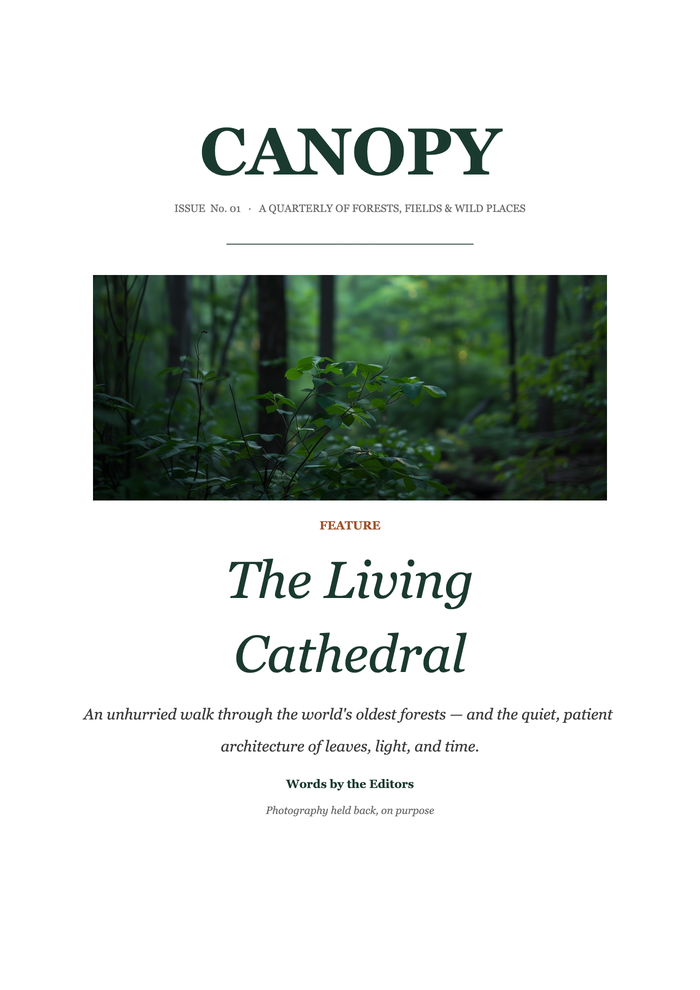
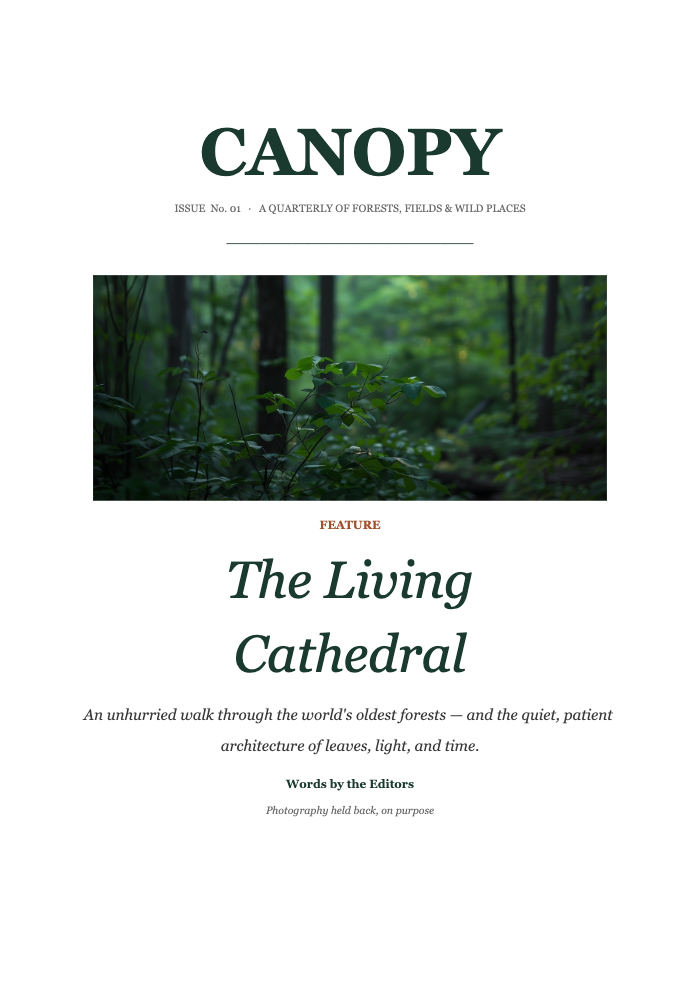
chore(release): 0.58.0
The sp3d release: full DrawingML 3-D shape shading (bevels, extrusion side
walls, calibrated light rig) on top of the 0.57.0 scene3d camera, plus xlsx
list data-validation dropdowns, pie/doughnut charts, and an opt-in Google
Fonts toggle in the VS Code preview.

- Refresh README screenshots (pptx/docx/xlsx demo decks).
- Bump all 8 packages to 0.58.0.
- CHANGELOG 0.58.0 section.
- Sync site API reference (XlsxWorkbook.resolveValidationList, ~4 MB math
  engine) and Capabilities highlights (sp3d bevel/extrusion, xlsx pie/
  doughnut, cell comments + list validation).

diff --git a/site/src/lib/api-reference.ts b/site/src/lib/api-reference.ts
@@ -23,7 +23,7 @@ export interface ApiClass {
 const ZIP = { name: 'maxZipEntryBytes', type: 'number', def: '512 MiB', desc: 'Per-entry ZIP decompression cap (zip-bomb guard). Lower it for untrusted input.' };
 const GFONTS = { name: 'useGoogleFonts', type: 'boolean', def: 'false', desc: 'Load metric-compatible webfonts from Google Fonts so layout matches Office without the fonts installed. Off by default for privacy.' };
 const DPR = { name: 'dpr', type: 'number', def: 'devicePixelRatio', desc: 'Device pixel ratio for the backing store (crispness on HiDPI).' };
-const MATH = { name: 'math', type: 'MathRenderer', def: 'undefined', desc: 'Opt-in OMML equation engine (MathJax + STIX Two Math, ~3 MB). Import it from the separate @silurus/ooxml/math entry — `import { math } from "@silurus/ooxml/math"` — and pass it to render equations. Omit it and equations are skipped — the engine tree-shakes away entirely.' };
+const MATH = { name: 'math', type: 'MathRenderer', def: 'undefined', desc: 'Opt-in OMML equation engine (MathJax + STIX Two Math, ~4 MB). Import it from the separate @silurus/ooxml/math entry — `import { math } from "@silurus/ooxml/math"` — and pass it to render equations. Omit it and equations are skipped — the engine tree-shakes away entirely.' };
 
 export const apiReference: Record<'docx' | 'xlsx' | 'pptx', ApiClass[]> = {
   pptx: [
@@ -150,6 +150,7 @@ export const apiReference: Record<'docx' | 'xlsx' | 'pptx', ApiClass[]> = {
         { sig: 'get sheetNames(): string[]', desc: 'Names of all sheets.' },
         { sig: 'get sheetCount(): number', desc: 'Total sheets.' },
         { sig: 'renderViewport(canvas, sheetIndex, viewport, opts?: { width?, height?, dpr?, cellScale? }): Promise<void>', desc: 'Render a row/col window of a sheet into the given canvas. Equations in shapes render when a `math` engine was passed to `load`.' },
+        { sig: 'resolveValidationList(sheetIndex, formula1): Promise<ResolvedList>', desc: 'Resolve a list-type data-validation `formula1` (ECMA-376 §18.3.1.32) into the allowed values to display — inline quoted list, a range reference (each cell’s display string), or `{ kind: \'formula\' }` for named ranges. Read-only.' },
         { sig: 'destroy(): void', desc: 'Release the worker.' },
       ],
     },

diff --git a/CHANGELOG.md b/CHANGELOG.md
@@ -4,6 +4,51 @@ All notable changes to @silurus/ooxml are documented here. The project follows
 semantic versioning; minor releases add spec-compliant features or behavior
 changes that remain compatible with existing API surfaces.
 
+## 0.58.0 — 2026-06-12
+
+The sp3d release: full DrawingML 3-D shape shading — bevels, extrusion side
+walls, and a calibrated light rig — layered on the scene3d camera from 0.57.0.
+Plus xlsx list data-validation dropdowns, pie/doughnut charts, and an opt-in
+Google Fonts toggle in the VS Code preview.
+
+core:
+
+- Bevel shading primitives for `sp3d` (§20.1.5.9 `bevelT` / §20.1.5.5
+  `bevelB`): the lip is a distance-field raster whose azimuth is sourced from
+  the gradient of a *blurred* distance field (not raw coverage), so the lit
+  band is scale-invariant and crack-free at HiDPI — anti-facet passes remove
+  the terminator facet on curved silhouettes (#414, #415, #416, #417).
+- Bevel band geometry no longer "flat-cuts" elliptical silhouettes; the lip
+  width is locked across render scales (#417).
+- Light rig (§20.1.5.12 `lightRig`): `rot` reversal + three-point fill light,
+  calibrated so matte/plastic materials read correctly (#421).
+
+pptx:
+
+- `sp3d` bevel shading now renders on shapes and pictures — `bevelT` /
+  `bevelB` lips lit by `lightRig`, with `matte` / `plastic` materials
+  (§20.1.5.9 / .5, #410, #414–#418).
+- Extrusion side walls (§20.1.5.3 `extrusionH` / `extrusionClr`) swept under
+  the `scene3d` camera, plus `p:sp` scene3d projection so shape text is drawn
+  in the projected frame (#410).
+- The bevel/scene3d offscreen no longer clips centre-aligned shape borders
+  (#420).
+
+xlsx:
+
+- List-type data validation (§18.3.1.32): the selected cell shows a dropdown
+  arrow whose click opens a read-only panel listing the allowed values,
+  resolved from inline lists or range references
+  (`XlsxWorkbook.resolveValidationList`) (#411).
+- Charts: pie and doughnut series now render (#396).
+
+vscode:
+
+- Opt-in `ooxmlViewer.useGoogleFonts` setting surfaces the library's
+  metric-compatible font substitution in the preview, widening the webview
+  CSP to the Google Fonts CDN only while enabled (off by default, and
+  force-disabled in untrusted workspaces) (#414).
+
 ## 0.57.0 — 2026-06-11
 
 The effects & 3D release: DrawingML shape/picture effects, scene3d camera